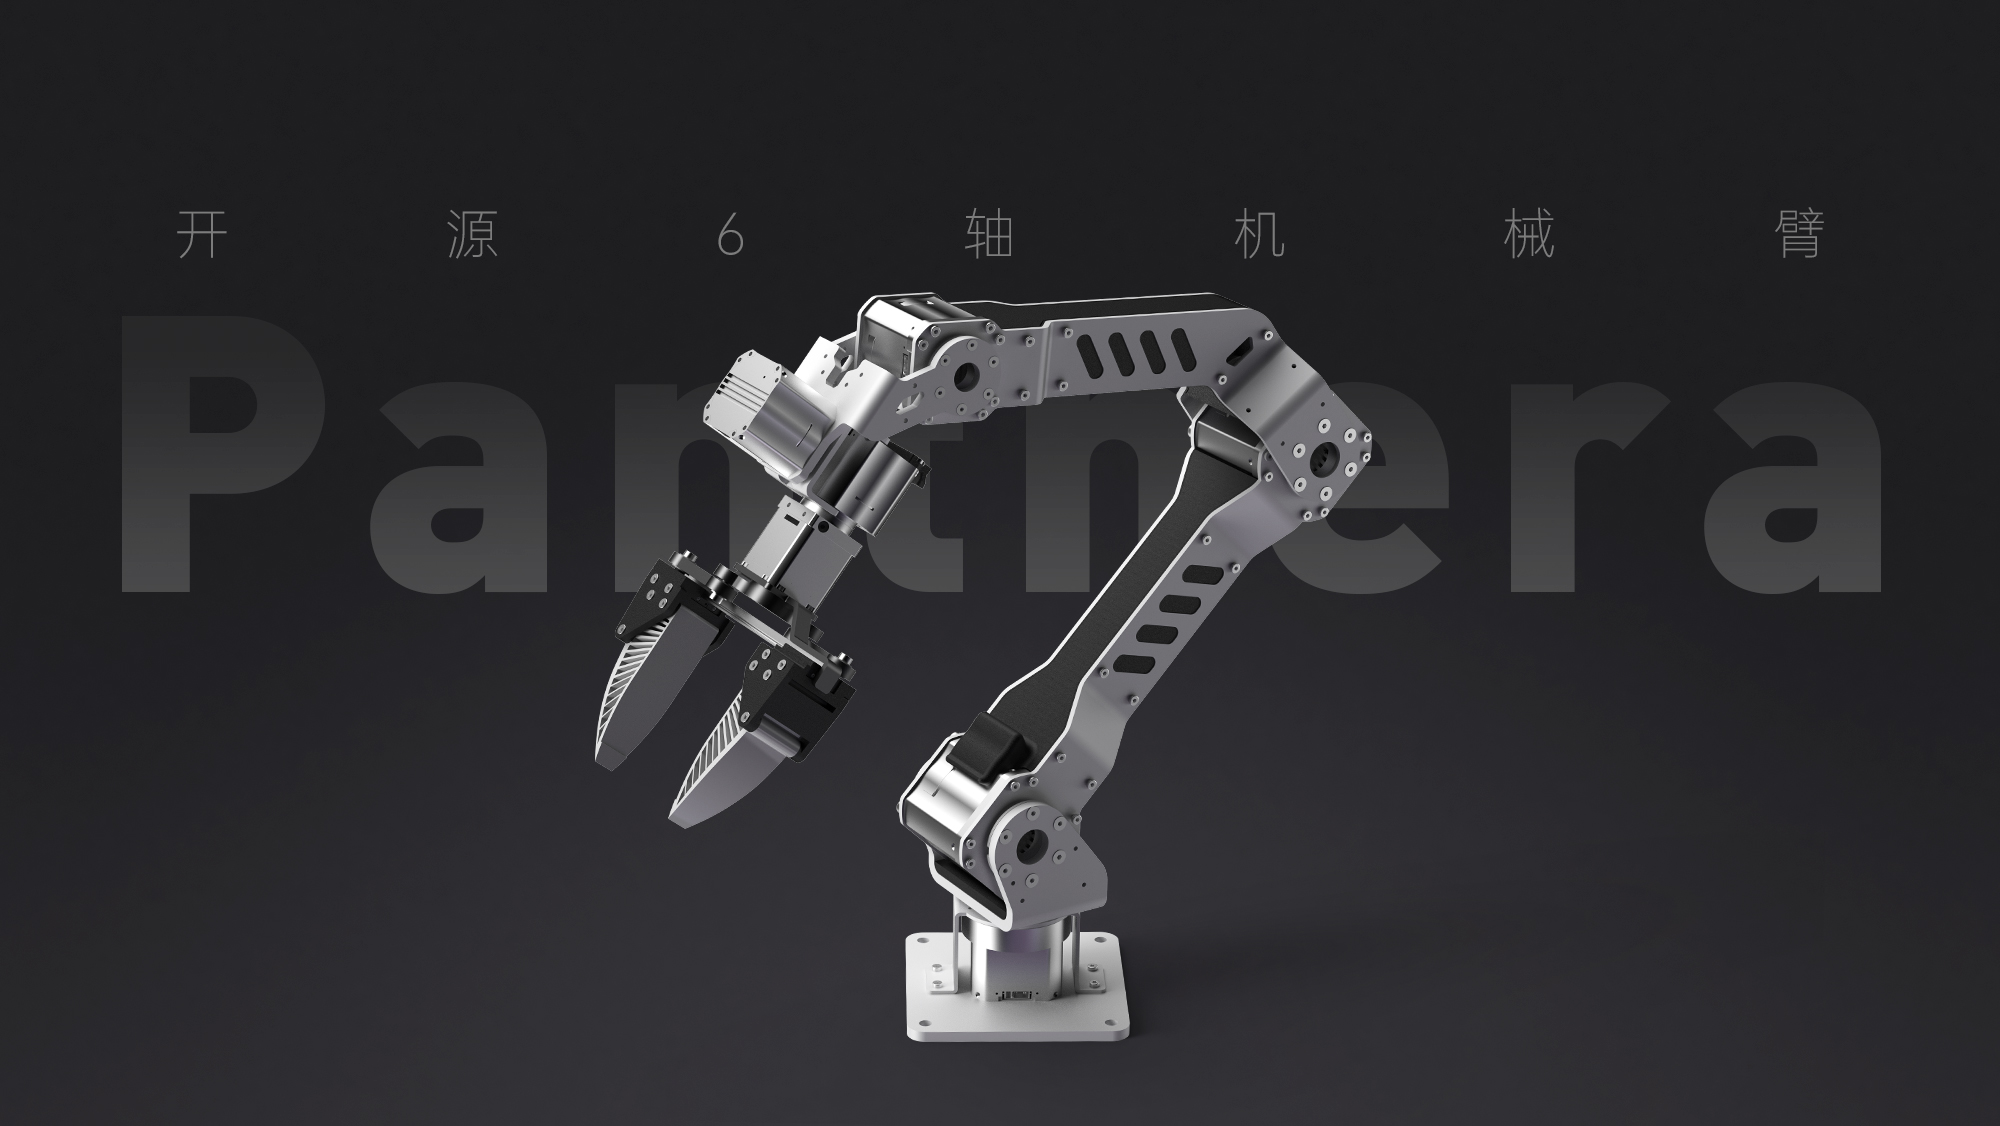
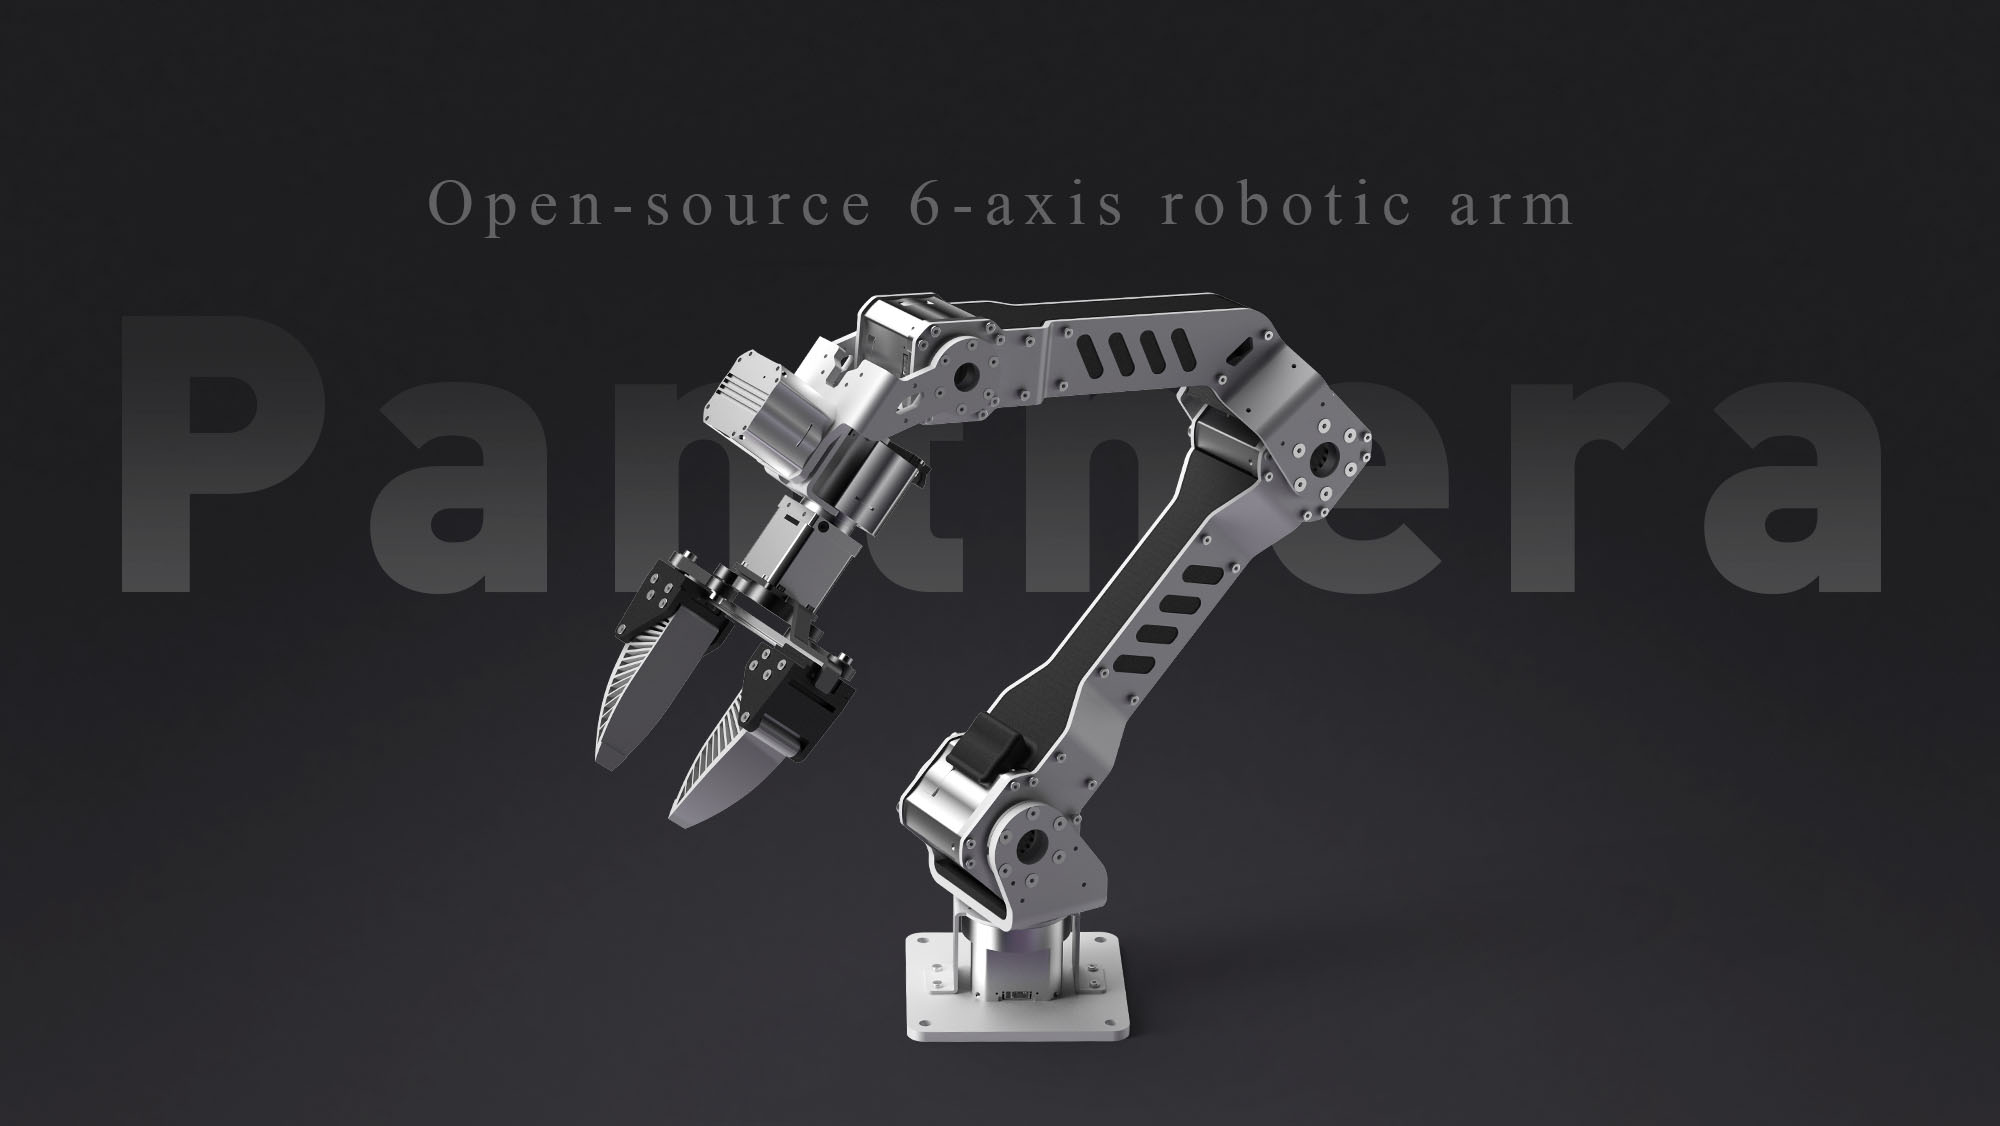
update

diff --git a/index_en.html b/index_en.html
@@ -1433,7 +1433,7 @@
 
     <!-- 首页大图 -->
     <section class="hero">
-        <img src="images/英文首页.png" alt="Panthera-HT Robotic Arm">
+        <img src="images/英文首页3.png" alt="Panthera-HT Robotic Arm">
     </section>
 
     <!-- 参数展示 -->
